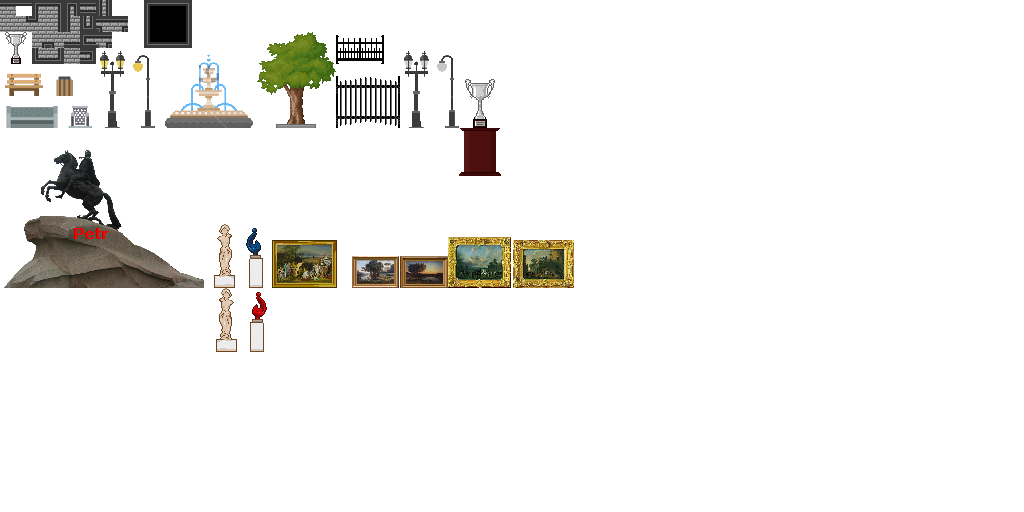
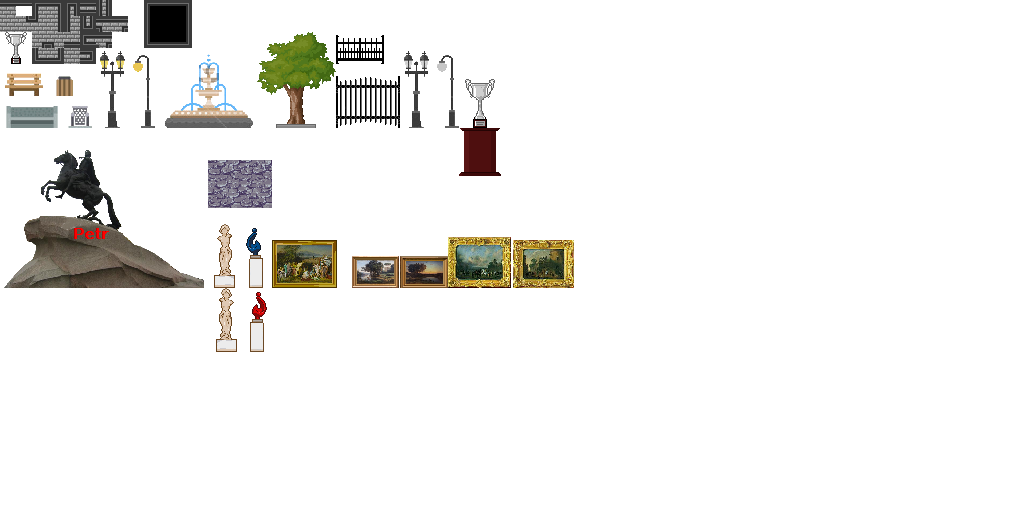
smth

Changed region(s): [[0.1875, 0.3125, 0.2812, 0.4062]]

diff --git a/Game/core/src/com/kaliwe/neercgame/stages/Level3.java b/Game/core/src/com/kaliwe/neercgame/stages/Level3.java
@@ -1,8 +1,11 @@
 package com.kaliwe.neercgame.stages;
 
+import com.badlogic.gdx.Gdx;
 import com.badlogic.gdx.physics.box2d.Body;
 import com.kaliwe.neercgame.actors.Pig;
 import com.kaliwe.neercgame.actors.Stanok;
+import com.kaliwe.neercgame.utils.Background;
+import com.kaliwe.neercgame.utils.ResourceUtils;
 import com.kaliwe.neercgame.utils.WorldUtils;
 
 /**
@@ -11,7 +14,14 @@ import com.kaliwe.neercgame.utils.WorldUtils;
 public class Level3 extends Level1 {
     public Level3() {
         super("level3", "Level with STANOK");
-        cameraLowerY = -50;
+        Gdx.gl.glClearColor(135/255f,206/255f,235/255f,1);
+
+        float skyOffset = 260;
+        bgs.add(new Background(ResourceUtils.getTextureRegion("cloudsBack"), 0.4f, 5f, 0.9f, hudCam, 0, skyOffset));
+        bgs.add(new Background(ResourceUtils.getTextureRegion("clouds"), 0.5f, 8f, 0.8f, hudCam, 0, skyOffset));
+
+        bgs.add(new Background(ResourceUtils.getTextureRegion("buildings"), 1.5f, 10f , 1f, hudCam, -1000, cameraLowerY*14));
+        cameraLowerY = 7;
     }
 
     @Override

diff --git a/Game/core/src/com/kaliwe/neercgame/stages/Level6.java b/Game/core/src/com/kaliwe/neercgame/stages/Level6.java
@@ -1,10 +1,20 @@
 package com.kaliwe.neercgame.stages;
 
+import com.badlogic.gdx.Gdx;
+import com.kaliwe.neercgame.utils.Background;
+import com.kaliwe.neercgame.utils.ResourceUtils;
+
 /**
  * Created by anton on 04.12.15.
  */
 public class Level6 extends Level1 {
     public Level6() {
         super("level6", "LEVEL 7");
+        Gdx.gl.glClearColor(135/255f,206/255f,235/255f,1);
+        float skyOffset = 260;
+        bgs.add(new Background(ResourceUtils.getTextureRegion("cloudsBack"), 0.4f, 5f, 0.9f, hudCam, 0, skyOffset));
+        bgs.add(new Background(ResourceUtils.getTextureRegion("clouds"), 0.5f, 8f, 0.8f, hudCam, 0, skyOffset));
+
+
     }
 }

diff --git a/Game/core/src/com/kaliwe/neercgame/stages/Level1.java b/Game/core/src/com/kaliwe/neercgame/stages/Level1.java
@@ -1,5 +1,6 @@
 package com.kaliwe.neercgame.stages;
 
+import com.badlogic.gdx.Gdx;
 import com.badlogic.gdx.graphics.Color;
 import com.badlogic.gdx.math.Vector3;
 import com.badlogic.gdx.physics.box2d.Body;
@@ -26,6 +27,8 @@ public class Level1 extends GameStage {
 
     public Level1() {
         this("level1", "LEVEL 2");
+        Gdx.gl.glClearColor(135/255f,206/255f,235/255f,1);
+
         float skyOffset = 260;
         bgs.add(new Background(ResourceUtils.getTextureRegion("cloudsBack"), 0.4f, 5f, 0.9f, hudCam, 0, skyOffset));
         bgs.add(new Background(ResourceUtils.getTextureRegion("clouds"), 0.5f, 8f, 0.8f, hudCam, 0, skyOffset));

diff --git a/Game/core/src/com/kaliwe/neercgame/screens/GameStateManager.java b/Game/core/src/com/kaliwe/neercgame/screens/GameStateManager.java
@@ -12,11 +12,11 @@ import java.util.Iterator;
  */
 public class GameStateManager {
     private static Iterator<Class<? extends GameStage>> iter = new ArrayList<Class<? extends GameStage>>() {{
-        add(Level0.class);
+        //add(Level0.class);
             //add(Level1.class);
             //add(Level2.class);
             //add(Level3.class);
-            //add(Level6.class);
+            add(Level6.class);
     }}.iterator();
     private static Class<? extends GameStage> last;
     private static Stage lastInstance;

diff --git a/Game/core/src/com/kaliwe/neercgame/actors/RainCloud.java b/Game/core/src/com/kaliwe/neercgame/actors/RainCloud.java
@@ -49,7 +49,7 @@ public class RainCloud extends Actor {
 
         bodyDef.position.set(position.x, position.y - 0.1f);
         bodyDef.type = BodyDef.BodyType.DynamicBody;
-        bodyDef.gravityScale = 8f;
+        bodyDef.gravityScale = 7f;
     }
 
     @Override

diff --git a/Game/core/src/com/kaliwe/neercgame/screens/GameScreen.java b/Game/core/src/com/kaliwe/neercgame/screens/GameScreen.java
@@ -15,7 +15,6 @@ public class GameScreen implements Screen {
     public static boolean lock;
 
     public GameScreen() {
-        Gdx.gl.glClearColor(135/255f,206/255f,235/255f,1);
     }
 
     public static double getTotalScore() {
